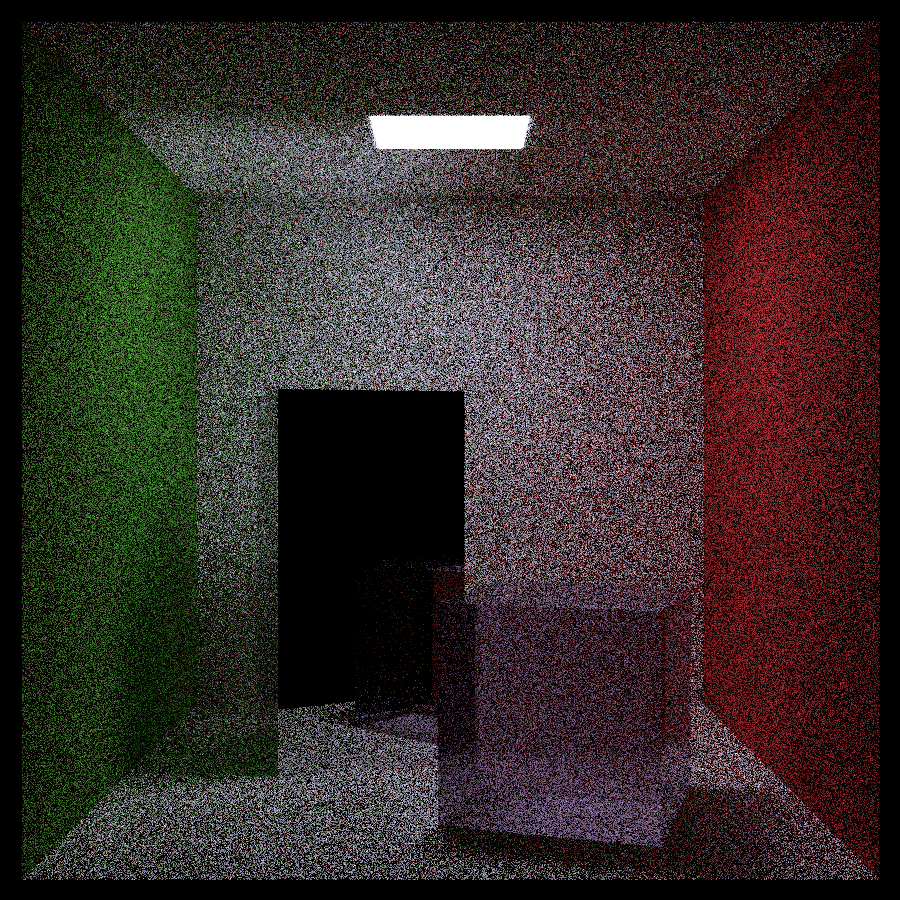
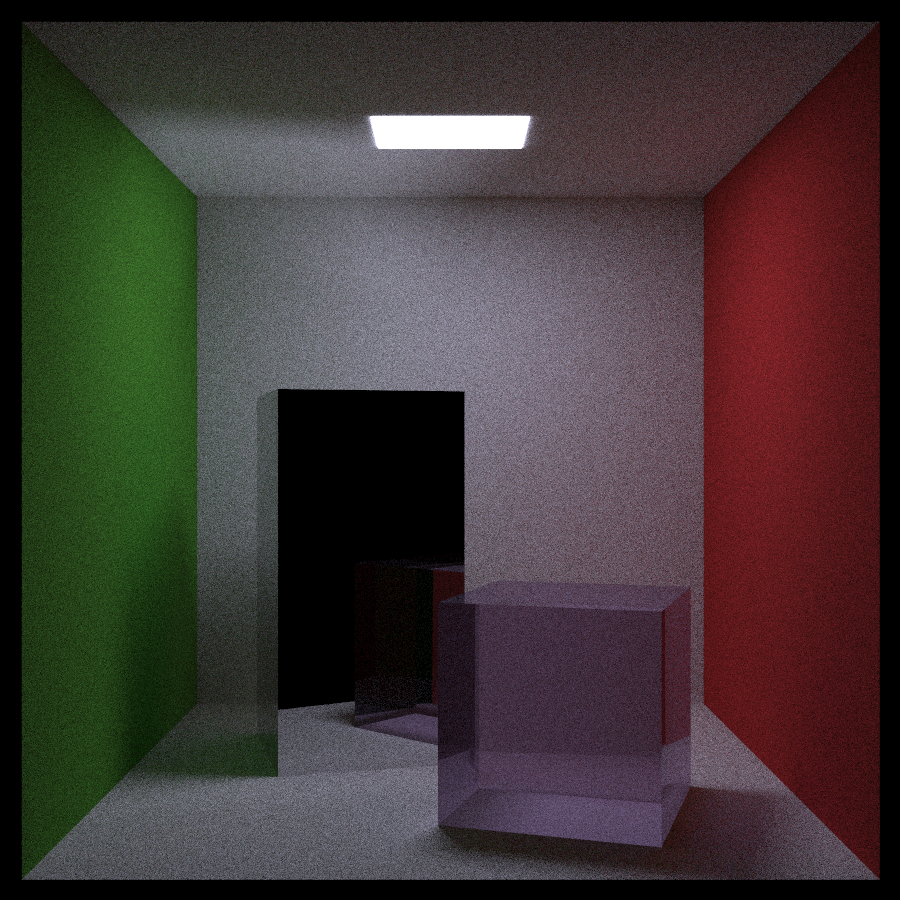
better image

diff --git a/src/RT/Main.java b/src/RT/Main.java
@@ -61,7 +61,7 @@ public class Main extends Application {
         BVHnode world = new BVHnode(scene, t0, t1);
 
 
-        int spp = 50;
+        int spp = 1000;
         int MaxDepth = 50;
         WritableImage image = new WritableImage(W, H);
         PixelWriter pw = image.getPixelWriter();

diff --git a/README.md b/README.md
@@ -1,5 +1,6 @@
 # Ray Tracing Demo
 CCS's ray tracer based on Java.
+CPU 
 
 
 #### Features:
